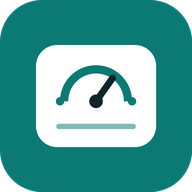
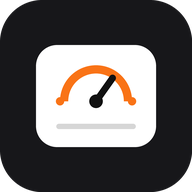
Add files via upload

diff --git a/index.html b/index.html
@@ -4,7 +4,7 @@
 <meta charset="utf-8">
 <meta name="viewport" content="width=device-width,initial-scale=1,viewport-fit=cover">
 <title>Suivi de poids</title>
-<meta name="theme-color" content="#0b7a75">
+<meta name="theme-color" content="#f3f3f2">
 <meta name="description" content="Suivi du poids quotidien avec moyenne hebdomadaire.">
 <link rel="manifest" href="manifest.webmanifest">
 <link rel="icon" href="icon.svg" type="image/svg+xml">
@@ -14,51 +14,88 @@
 <meta name="apple-mobile-web-app-title" content="Poids">
 <meta name="apple-mobile-web-app-status-bar-style" content="default">
 <link rel="stylesheet" href="https://fonts.googleapis.com/css2?family=Bricolage+Grotesque:opsz,wght@12..96,500;12..96,700&family=Instrument+Sans:wght@400;500;600&family=IBM+Plex+Mono:wght@400;500&display=swap">
+<script>
+try{var _p=localStorage.getItem('sp-palette');document.documentElement.setAttribute('data-palette',_p==='rose'?'rose':'noir');}catch(e){document.documentElement.setAttribute('data-palette','noir');}
+</script>
 <style>
 
+/* Mise en page : une colonne de 720px. Moyenne et saisie côte à côte, puis courbe, semaines, historique. */
 :root{
-  /* Mise en page : une colonne de 720px. Moyenne et saisie côte à côte, puis courbe, semaines, historique. */
-  --bg:#eef3f3;
-  --surface:#fbfdfd;
-  --ink:#10252a;
-  --muted:#566d72;
-  --line:#d3dfe0;
-  --accent:#0b7a75;
-  --accent-ink:#ffffff;
-  --soft:#dcebea;
-  --dot:#7f9ca0;
-  --danger:#a63a2b;
   --f-display:'Bricolage Grotesque',system-ui,-apple-system,'Segoe UI',sans-serif;
   --f-body:'Instrument Sans',system-ui,-apple-system,'Segoe UI',sans-serif;
   --f-mono:'IBM Plex Mono',ui-monospace,SFMono-Regular,Menlo,monospace;
 }
+
+/* Thème "noir" : noir, blanc et accent orange (clair) */
+:root,
+:root[data-palette="noir"]{
+  --bg:#f3f3f2;
+  --surface:#ffffff;
+  --ink:#111111;
+  --muted:#5d5d5d;
+  --line:#dcdcda;
+  --accent:#f97316;
+  --accent-ink:#111111;
+  --accent-text:#c2410c;
+  --hero-bg:#111111;
+  --hero-ink:#ffffff;
+  --hero-muted:#b4b4b4;
+  --hero-line:#3a3a3a;
+  --dot:#8c8c8c;
+  --danger:#b42318;
+}
+/* Thème "rose" (clair) */
+:root[data-palette="rose"]{
+  --bg:#fdf0f5;
+  --surface:#fffafc;
+  --ink:#3a1226;
+  --muted:#7b4f65;
+  --line:#f0d0de;
+  --accent:#d6336c;
+  --accent-ink:#ffffff;
+  --accent-text:#b21f55;
+  --hero-bg:#ffd9e7;
+  --hero-ink:#3a1226;
+  --hero-muted:#7a3a57;
+  --hero-line:#f2adc8;
+  --dot:#c27c9b;
+  --danger:#b42318;
+}
 @media (prefers-color-scheme: dark){
-  :root:not([data-theme="light"]){
-    --bg:#0c1819;
-    --surface:#132426;
-    --ink:#e6f1f1;
-    --muted:#8fa9ad;
-    --line:#233b3e;
-    --accent:#3fc1b6;
-    --accent-ink:#05211f;
-    --soft:#173436;
-    --dot:#6f8d91;
+  :root:not([data-palette="rose"]){
+    --bg:#0a0a0a;
+    --surface:#161616;
+    --ink:#f5f5f5;
+    --muted:#a3a3a3;
+    --line:#2b2b2b;
+    --accent:#ff7a1a;
+    --accent-ink:#111111;
+    --accent-text:#ff7a1a;
+    --hero-bg:#f5f5f5;
+    --hero-ink:#111111;
+    --hero-muted:#555555;
+    --hero-line:#d0d0d0;
+    --dot:#7a7a7a;
+    --danger:#ff8a7a;
+    color-scheme:dark;
+  }
+  :root[data-palette="rose"]{
+    --bg:#1d0e17;
+    --surface:#29141f;
+    --ink:#fbe9f1;
+    --muted:#c79ab0;
+    --line:#44253a;
+    --accent:#ff7eb3;
+    --accent-ink:#2a0f1d;
+    --accent-text:#ff7eb3;
+    --hero-bg:#3d1b2e;
+    --hero-ink:#ffe4ef;
+    --hero-muted:#d6a6bc;
+    --hero-line:#5c2f45;
+    --dot:#a8708b;
     --danger:#ff9a8a;
     color-scheme:dark;
   }
-}
-:root[data-theme="dark"]{
-  --bg:#0c1819;
-  --surface:#132426;
-  --ink:#e6f1f1;
-  --muted:#8fa9ad;
-  --line:#233b3e;
-  --accent:#3fc1b6;
-  --accent-ink:#05211f;
-  --soft:#173436;
-  --dot:#6f8d91;
-  --danger:#ff9a8a;
-  color-scheme:dark;
 }
 
 html{color-scheme:light;-webkit-text-size-adjust:100%}
@@ -91,7 +128,7 @@ header p{margin:0;color:var(--muted);max-width:56ch}
 .top{display:grid;grid-template-columns:minmax(0,1.15fr) minmax(0,1fr);gap:16px}
 @media (max-width:620px){.top{grid-template-columns:minmax(0,1fr)}}
 
-.avg{background:var(--soft);border-radius:10px;padding:20px;display:flex;flex-direction:column;gap:6px}
+.avg{background:var(--hero-bg);color:var(--hero-ink);border-radius:10px;padding:20px;display:flex;flex-direction:column;gap:6px}
 .label{font-size:12px;font-weight:600;letter-spacing:0.08em;text-transform:uppercase;color:var(--muted);margin:0}
 .big{font-family:var(--f-display);font-weight:700;font-size:64px;line-height:1;letter-spacing:-0.02em;font-variant-numeric:tabular-nums;margin:2px 0 0}
 .big small{font-size:20px;font-weight:500;color:var(--muted);letter-spacing:0;margin-left:6px}
@@ -99,6 +136,8 @@ header p{margin:0;color:var(--muted);max-width:56ch}
 .delta{margin:6px 0 0;font-family:var(--f-mono);font-size:13px;font-variant-numeric:tabular-nums}
 .last{margin-top:auto;padding-top:12px;border-top:1px solid var(--line);display:flex;justify-content:space-between;gap:12px;font-size:14px;flex-wrap:wrap}
 .last strong{font-family:var(--f-mono);font-weight:500;font-variant-numeric:tabular-nums}
+.avg .label,.avg .sub,.avg .big small{color:var(--hero-muted)}
+.avg .last{border-top-color:var(--hero-line)}
 
 .panel{background:var(--surface);border:1px solid var(--line);border-radius:10px;padding:18px}
 form{display:grid;gap:12px;align-content:start}
@@ -121,7 +160,7 @@ input:focus-visible,button:focus-visible{outline:2px solid var(--accent);outline
   border:0;border-radius:8px;height:46px;padding-inline:16px;
 }
 .btn:disabled{opacity:.6;cursor:default}
-.status{min-height:20px;margin:0;font-size:14px;color:var(--accent)}
+.status{min-height:20px;margin:0;font-size:14px;color:var(--accent-text)}
 .status.err{color:var(--danger)}
 
 h2{font-family:var(--f-display);font-weight:700;font-size:20px;letter-spacing:-0.005em;margin:0 0 10px;text-wrap:balance}
@@ -136,7 +175,7 @@ section.plain{border-top:1px solid var(--line);padding-top:18px}
 .chart .dot{fill:var(--dot)}
 .chart .dot-last{fill:var(--surface);stroke:var(--ink);stroke-width:2}
 .chart .wavg{stroke:var(--accent);stroke-width:3.5;stroke-linecap:round}
-.chart .wlabel{fill:var(--accent);font:500 11px var(--f-mono);paint-order:stroke;stroke:var(--surface);stroke-width:3px;stroke-linejoin:round}
+.chart .wlabel{fill:var(--accent-text);font:500 11px var(--f-mono);paint-order:stroke;stroke:var(--surface);stroke-width:3px;stroke-linejoin:round}
 .empty{margin:0;padding:80px 12px;text-align:center;color:var(--muted)}
 .legend{display:flex;gap:18px;flex-wrap:wrap;margin:10px 0 0;font-size:13px;color:var(--muted)}
 .legend span{display:inline-flex;align-items:center;gap:8px}
@@ -157,12 +196,12 @@ td strong{font-weight:600}
 .row .d{flex:1 1 140px;min-width:0}
 .row .k{font-family:var(--f-mono);font-variant-numeric:tabular-nums;font-weight:500;min-width:84px;text-align:right}
 .row .acts{display:flex;gap:4px}
-.link{font:inherit;font-size:14px;background:none;border:0;color:var(--accent);cursor:pointer;padding:8px;border-radius:6px;min-height:36px}
+.link{font:inherit;font-size:14px;background:none;border:0;color:var(--accent-text);cursor:pointer;padding:8px;border-radius:6px;min-height:36px}
 .link.warn{color:var(--danger);font-weight:600}
 .more{margin-top:10px}
 .note{margin:0;font-size:13px;color:var(--muted)}
 .backup{display:flex;gap:10px;flex-wrap:wrap;margin-top:12px}
-.btn.ghost{background:transparent;color:var(--accent);border:1px solid var(--accent);height:42px;font-weight:500}
+.btn.ghost{background:transparent;color:var(--accent-text);border:1px solid var(--accent);height:42px;font-weight:500}
 .up{color:var(--ink)}
 @media (prefers-reduced-motion: no-preference){
   .btn{transition:opacity .15s}
@@ -172,8 +211,14 @@ td strong{font-weight:600}
 .acct{display:flex;align-items:center;gap:6px 10px;flex-wrap:wrap;margin-top:10px;font-size:14px;color:var(--muted)}
 .acct .email{overflow-wrap:anywhere}
 .acct .link{padding-inline:4px}
+.themes{display:flex;gap:8px;flex-wrap:wrap;margin-top:12px}
+.theme-btn{display:inline-flex;align-items:center;gap:8px;min-height:38px;padding:0 14px 0 10px;border-radius:999px;border:1px solid var(--line);background:var(--surface);color:var(--ink);font:inherit;font-size:14px;cursor:pointer}
+.theme-btn[aria-checked="true"]{border-color:var(--accent);box-shadow:0 0 0 1px var(--accent);font-weight:600}
+.theme-btn .sw{width:18px;height:18px;border-radius:50%;border:1px solid var(--line);flex:none;display:inline-block}
+.sw-rose{background:linear-gradient(135deg,#d6336c 50%,#ffd9e7 50%)}
+.sw-noir{background:linear-gradient(135deg,#111111 50%,#f97316 50%)}
 .pill{font-family:var(--f-mono);font-size:12px;padding:2px 9px;border-radius:999px;border:1px solid var(--line);color:var(--muted);white-space:nowrap}
-.pill.pending{color:var(--ink);border-color:var(--accent)}
+.pill.pending{color:var(--ink);border-color:var(--accent-text)}
 .auth{max-width:420px;display:grid;gap:18px}
 .stack{display:grid;gap:10px}
 .auth .link{justify-self:start;padding-inline:0}
@@ -196,6 +241,7 @@ td strong{font-weight:600}
     <header>
       <h1>Suivi de poids</h1>
       <p>Connectez-vous pour retrouver vos pesées sur tous vos appareils. Chaque compte ne voit que ses propres données.</p>
+      <div class="themes" role="radiogroup" aria-label="Couleurs du site" data-themes></div>
     </header>
     <form class="panel stack" id="authForm" novalidate>
       <div class="field">
@@ -239,6 +285,7 @@ td strong{font-weight:600}
         <span class="pill" id="syncPill">Synchronisé</span>
         <button class="link" id="signOutBtn" type="button">Se déconnecter</button>
       </div>
+      <div class="themes" role="radiogroup" aria-label="Couleurs du site" data-themes></div>
     </header>
 
     <div class="top">
@@ -623,6 +670,8 @@ td strong{font-weight:600}
     var p=lsGet(pendKey());
     pending=Array.isArray(p)?p.filter(function(o){ return o && (o.op==='set'||o.op==='del') && typeof o.date==='string'; }):[];
     loading=!Array.isArray(cached);
+    var mp=session.user.user_metadata && session.user.user_metadata.palette;
+    if(PALETTES.indexOf(mp)>=0) applyPalette(mp);
     showView('app');
     sync();
   }
@@ -785,9 +834,50 @@ td strong{font-weight:600}
     rd.readAsText(f);
   });
 
+  /* ---------- Couleurs ---------- */
+  var PALETTES=['noir','rose'];
+  function getPalette(){
+    try{ var p=localStorage.getItem('sp-palette'); if(PALETTES.indexOf(p)>=0) return p; }catch(e){}
+    return 'noir';
+  }
+  function syncThemeColor(){
+    var m=document.querySelector('meta[name="theme-color"]'); if(!m) return;
+    var v=getComputedStyle(document.documentElement).getPropertyValue('--bg').trim();
+    if(v) m.setAttribute('content',v);
+  }
+  function applyPalette(p){
+    if(PALETTES.indexOf(p)<0) p='noir';
+    document.documentElement.setAttribute('data-palette',p);
+    try{ localStorage.setItem('sp-palette',p); }catch(e){}
+    document.querySelectorAll('[data-themes] .theme-btn').forEach(function(b){
+      b.setAttribute('aria-checked', b.getAttribute('data-palette')===p?'true':'false');
+    });
+    syncThemeColor();
+  }
+  function buildThemes(){
+    document.querySelectorAll('[data-themes]').forEach(function(box){
+      box.innerHTML=
+        '<button type="button" class="theme-btn" role="radio" aria-checked="false" data-palette="rose"><i class="sw sw-rose"></i>Rose</button>'+
+        '<button type="button" class="theme-btn" role="radio" aria-checked="false" data-palette="noir"><i class="sw sw-noir"></i>Noir et orange</button>';
+    });
+  }
+  document.addEventListener('click', function(ev){
+    var b=ev.target.closest && ev.target.closest('.theme-btn'); if(!b) return;
+    var p=b.getAttribute('data-palette');
+    applyPalette(p);
+    if(sb && userId){
+      try{ Promise.resolve(sb.auth.updateUser({data:{palette:p}})).catch(function(){}); }catch(e){}
+    }
+  });
+  if(window.matchMedia){
+    var mq=window.matchMedia('(prefers-color-scheme: dark)');
+    if(mq.addEventListener) mq.addEventListener('change', syncThemeColor);
+  }
+
   /* ---------- Démarrage ---------- */
   var t=todayStr();
   $('date').value=t; $('date').max=t;
+  buildThemes(); applyPalette(getPalette());
 
   if(window.ResizeObserver){
     var rz=null;

diff --git a/sw.js b/sw.js
@@ -1,6 +1,6 @@
 /* Service worker : l'application s'ouvre sans connexion après la première visite.
    Les appels vers la base de données (autre domaine) ne passent jamais par le cache. */
-const VERSION = 'suivi-poids-v2';
+const VERSION = 'suivi-poids-v3';
 const SHELL = [
   './',
   './index.html',
